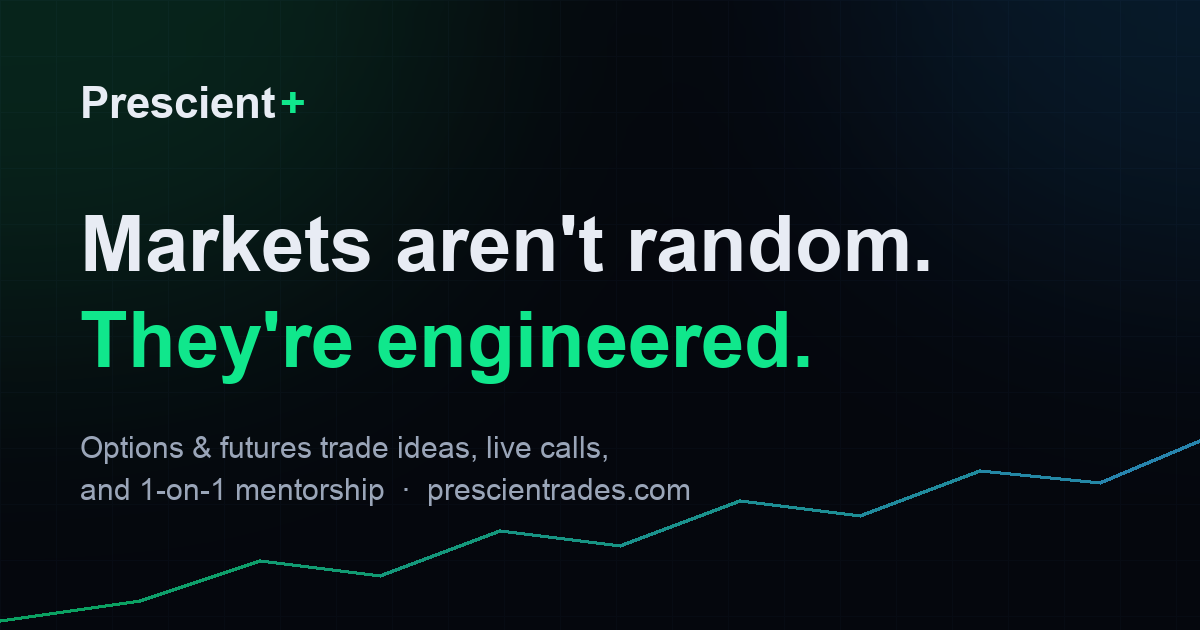
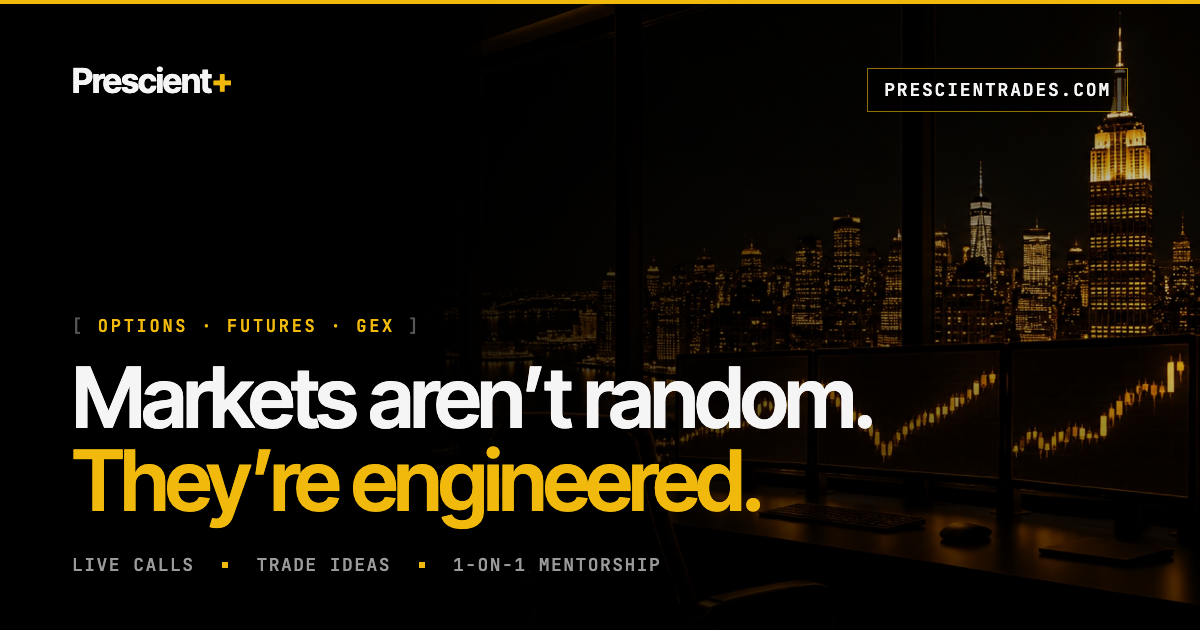
Replace link preview images with black and gold design
New og-home.png (homepage) and og-gex.png (GEX Sniper page), 1200x630.
Old og-image.png overwritten with the new homepage image for cached links.

diff --git a/index.html b/index.html
@@ -16,10 +16,13 @@
   <meta property="og:site_name" content="Prescient+" />
   <meta property="og:title" content="Prescient+ | Markets Aren't Random. They're Engineered." />
   <meta property="og:description" content="Options &amp; futures trade ideas, live calls, and 1-on-1 mentorship built around dealer positioning, gamma, and liquidity." />
-  <meta property="og:image" content="https://prescientrades.com/og-image.png" />
+  <meta property="og:image" content="https://prescientrades.com/og-home.png" />
+  <meta property="og:image:width" content="1200" />
+  <meta property="og:image:height" content="630" />
+  <meta property="og:image:alt" content="Prescient+ — Markets aren't random. They're engineered." />
   <meta name="twitter:card" content="summary_large_image" />
   <meta name="twitter:title" content="Prescient+ | Markets Aren't Random. They're Engineered." />
-  <meta name="twitter:image" content="https://prescientrades.com/og-image.png" />
+  <meta name="twitter:image" content="https://prescientrades.com/og-home.png" />
 
   <link rel="icon" type="image/svg+xml" href="favicon.svg" />
   <link rel="preconnect" href="https://fonts.googleapis.com" />

diff --git a/gex-sniper.html b/gex-sniper.html
@@ -10,7 +10,14 @@
   <meta property="og:type" content="website" />
   <meta property="og:title" content="GEX Sniper | See Where Dealers Are Forced to Hedge" />
   <meta property="og:description" content="Gamma exposure heatmaps, AI-powered insights, and real-time options flow." />
-  <meta property="og:image" content="https://prescientrades.com/og-image.png" />
+  <meta property="og:url" content="https://prescientrades.com/gex-sniper.html" />
+  <meta property="og:site_name" content="Prescient+" />
+  <meta property="og:image" content="https://prescientrades.com/og-gex.png" />
+  <meta property="og:image:width" content="1200" />
+  <meta property="og:image:height" content="630" />
+  <meta property="og:image:alt" content="GEX Sniper — See where dealers hedge." />
+  <meta name="twitter:card" content="summary_large_image" />
+  <meta name="twitter:image" content="https://prescientrades.com/og-gex.png" />
   <link rel="icon" type="image/svg+xml" href="favicon.svg" />
   <link rel="preconnect" href="https://fonts.googleapis.com" />
   <link rel="preconnect" href="https://fonts.gstatic.com" crossorigin />
